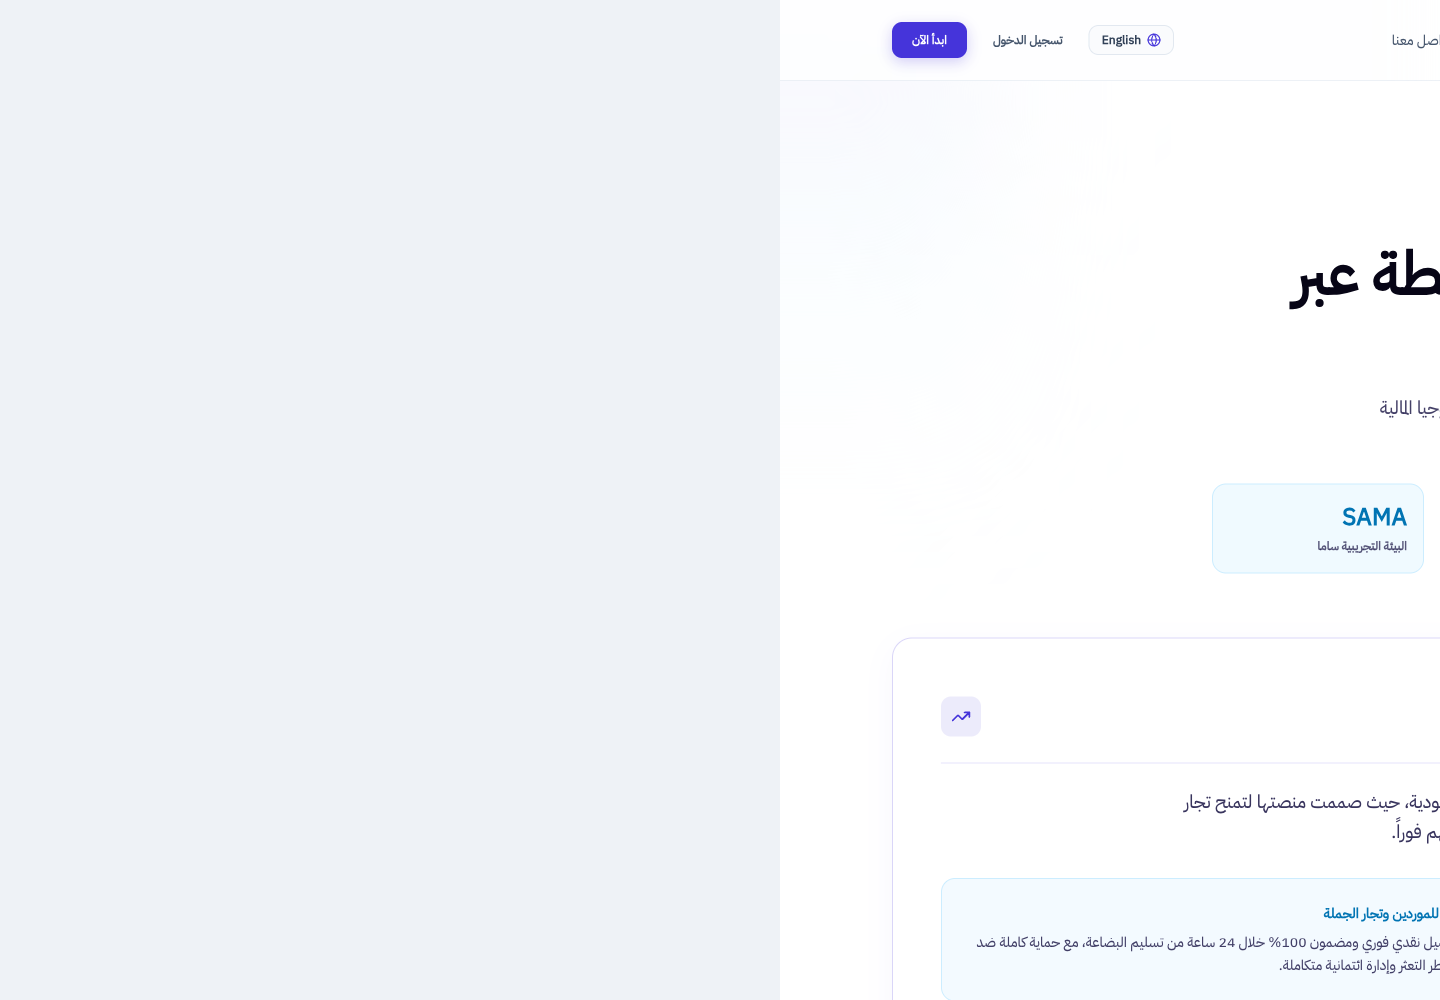
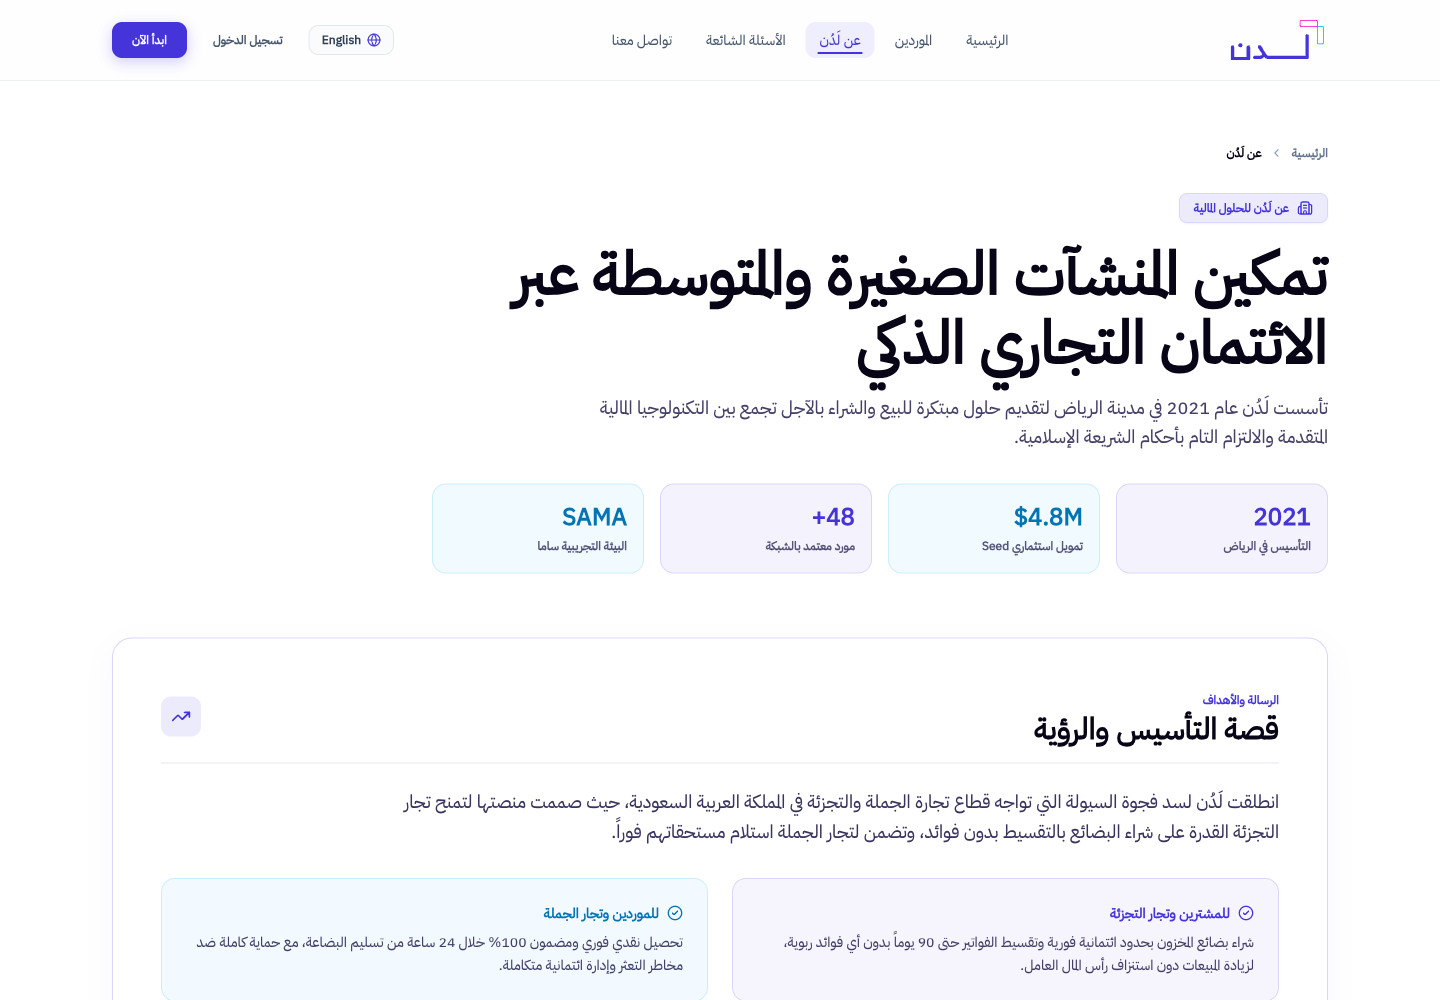
Refine project showcases and home cards

diff --git a/data/projects.ts b/data/projects.ts
@@ -141,7 +141,7 @@ export const projects: Project[] = [
     tools: ['React', 'TypeScript', 'Node.js', 'Prisma', 'Playwright', 'AI-Assisted Development'],
     coverGradient: 'from-sky-500/20 to-blue-500/20',
     description:
-      'An Arabic-first workforce platform for Saudi companies, connecting attendance, employee records, leave, approvals, payroll, compliance, performance, reporting, and employee mobile workflows.',
+      'منصة عربية لإدارة القوى العاملة للشركات السعودية، تربط الحضور وملفات الموظفين والإجازات والموافقات والرواتب والامتثال والأداء والتقارير وتجارب الموظفين على الجوال.',
     impact: 'Turned a broad HR product vision into a live, role-based web and mobile platform with Saudi-ready operations and bilingual delivery.',
     image: stockImage('projects/dawwem/cover.png'),
     livePreviewUrl: 'https://dawwemhrsystemdemo.vercel.app/',
@@ -268,9 +268,9 @@ export const projects: Project[] = [
       },
       {
         type: 'image',
-        src: stockImage('projects/restuhub/order-progress.png'),
-        alt: 'RestuHub order confirmation and live progress screen',
-        caption: 'Connected fulfilment — After checkout, the guest receives a clear confirmation and can track the order while cashier and kitchen teams handle the same order lifecycle.',
+        src: stockImage('projects/restuhub/orders.png'),
+        alt: 'RestuHub cashier order operations workspace',
+        caption: 'Order operations — Cashiers can open the till, search and filter unresolved orders, review channel and status, and hand each order through the service lifecycle with a clear operational view.',
       },
       {
         type: 'image',

diff --git a/components/PortfolioApp.tsx b/components/PortfolioApp.tsx
@@ -170,14 +170,7 @@ export function PortfolioApp() {
   const allProjectsFilter = workFilters[0];
   const [filter, setFilter] = useState(allProjectsFilter?.label ?? '');
   const orderedProjects = useMemo(() => {
-    const featuredSlug = 'homecare-medical-app';
-    const featuredProject = siteContent.projects.items.find((project) => project.slug === featuredSlug);
-    if (!featuredProject) return siteContent.projects.items;
-
-    return [
-      featuredProject,
-      ...siteContent.projects.items.filter((project) => project.slug !== featuredSlug),
-    ];
+    return siteContent.projects.items;
   }, []);
 
   useEffect(() => {
@@ -314,6 +307,11 @@ export function PortfolioApp() {
     const filtered = orderedProjects.filter((project) => project.category === activeFilter.category);
     return filtered.length > 0 ? filtered : orderedProjects;
   }, [filter, workFilters, allProjectsFilter, orderedProjects]);
+
+  const homeProjects = useMemo(
+    () => orderedProjects.filter((project) => project.category === 'Vibe Coding'),
+    [orderedProjects]
+  );
 
   const projectSlug = projectDetailMatch?.[1] ?? '';
   const blogSlug = blogDetailMatch?.[1] ?? '';
@@ -480,7 +478,7 @@ export function PortfolioApp() {
             <motion.div {...reveal.cardGrid}>
               <StackedCards
                 orchestrated
-                items={filteredProjects}
+                items={homeProjects}
                 renderItem={(project) => (
                   <ProjectCardWrapper project={project} onClick={handleProjectClick} />
                 )}
